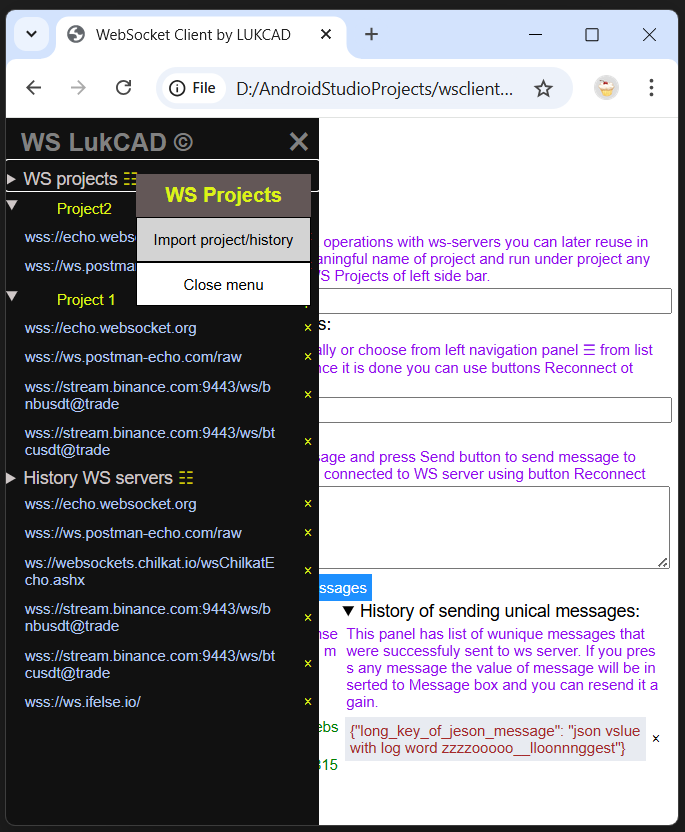
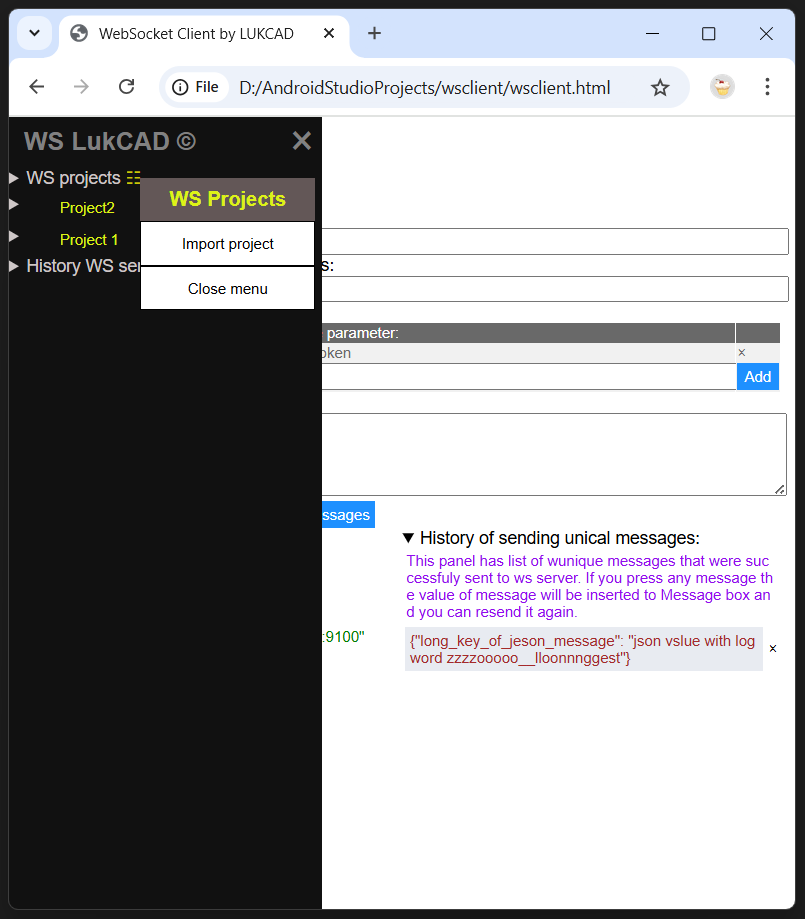
version 1.0.29

Changed region(s): [[0.0, 0.0, 1.0, 1.0], [0.0, 0.3438, 0.0307, 0.375]]

diff --git a/wsclient.html b/wsclient.html
@@ -528,7 +528,7 @@
             <div style="cursor:pointer;white-space: nowrap" onclick="openNav()">
                 <h4>&#9776; WebSocket Client</h4>
             </div>
-            <div id="release">v1.0.28</div>
+            <div id="release">v1.0.29</div>
             <div id="newrelease"></div>
         </div>
 
@@ -550,12 +550,18 @@
         <input type="text" id="nameServer" value="wss://echo.websocket.org" /> </br>
         <details>
             <summary>WS Parameters:</summary>
-            <p>You can point the necessary parameters that should be applied to ws-server. For xeample: for token
+            <p>You can point the necessary parameters that should be applied to ws-server when you create connect to it. For example: for token
                 authentication you maybe needing to add parameter 'token' with required value.</p>
         </details>
         <div id="listParameters"></div>
 
         <div class="paramTopRow"></div>
+        <div class="paramRow">
+            <div style="background-color: dimgray;color: white;" >Type:</div>
+            <div style="background-color: dimgray;color: white;">Name parameter:</div>
+            <div style="background-color: dimgray;color: white;">Value parameter:</div>
+            <div style="background-color: dimgray;color: white;"></div>
+        </div>
         <div id="queryList" class="paramRow"></div>
         <div class="paramRow">
             <div>
@@ -570,7 +576,7 @@
                 <input type="text" id="valueNewParameter" value="" />
             </div>
             <div>
-                <button class="btn" style="width: 100%;" onclick="addParameters()">Add</button>
+                <button class="btn" style="width: 100%;" title="Add parameter to this ws-server" onclick="addParameters()">Add</button>
             </div>
         </div>
         <div class="paramTopRow"></div>
@@ -1560,22 +1566,23 @@
 
             var parType = document.createElement("div");
             parType.style.wordWrap = "break-word";
-            parType.style.color = `gray`;
+            parType.style.color = `dimgray`;
             parType.innerHTML = _partype;
 
             var parName = document.createElement("div");
             parName.style.wordWrap = "break-word";
-            parName.style.color = `gray`;
+            parName.style.color = `dimgray`;
             parName.innerHTML = _parname;
 
             var parVal = document.createElement("div");
             parVal.style.wordWrap = "break-word";
-            parVal.style.color = `gray`;
+            parVal.style.color = `dimgray`;
             parVal.innerHTML = _parval;  
             
             var parAct = document.createElement("div");
+            parAct.title = "Remove parameter";
             parAct.style.wordWrap = "break-word";
-            parAct.style.color = `gray`;
+            parAct.style.color = `dimgray`;
             parAct.style.cursor = `pointer`;
             parAct.onclick = deleteParamVal;
             parAct.innerHTML = '&times;'; 

diff --git a/README.md b/README.md
@@ -33,6 +33,12 @@
   - button `Reconnect` to start connection to WS server again after stop.
   - button `Clean Messages` to remove messages from panel `Messages`.
   - button `Send` - to send message from text box to WS and get response. if sending succeed then sending message will be added to history if it is unical.
+  - List of `WS Parameters` where you can at this moment:
+    - add new parameter with type `query` and your required name and value;
+    - remove not needing parameter;
+    
+      Notice: `WS parameters` list help you add necessary prarameters which some ws-servers use for authentication, currntly it is one of the simpelst ways to verify authentication during connection of client to ws-server; Because there are another ways of authentication, in next releases new type of parameter can be added.
+
   - Panel `Messages` shows all conversation with web socket server:
     - what message you sent;
     - what response has been received;
